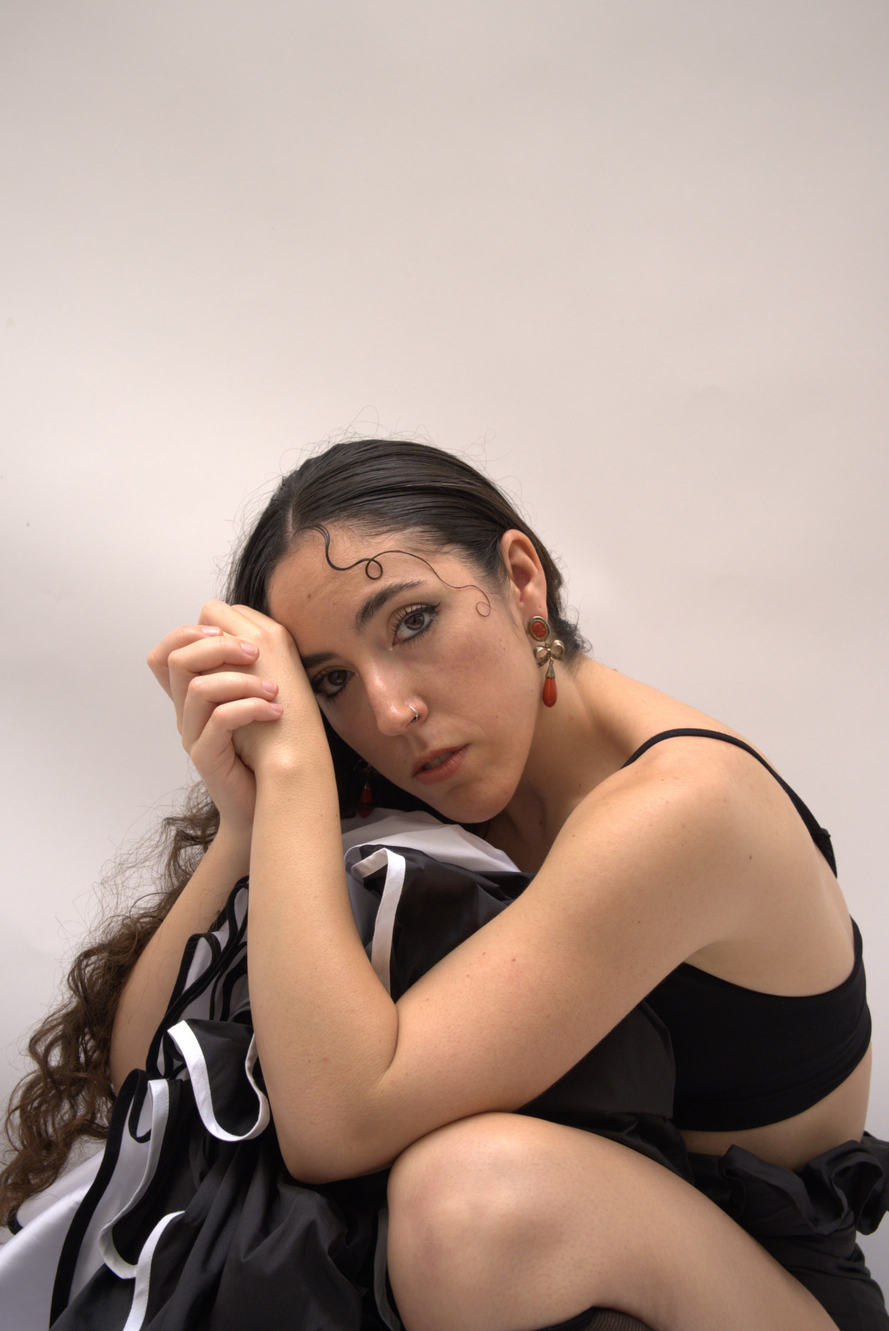
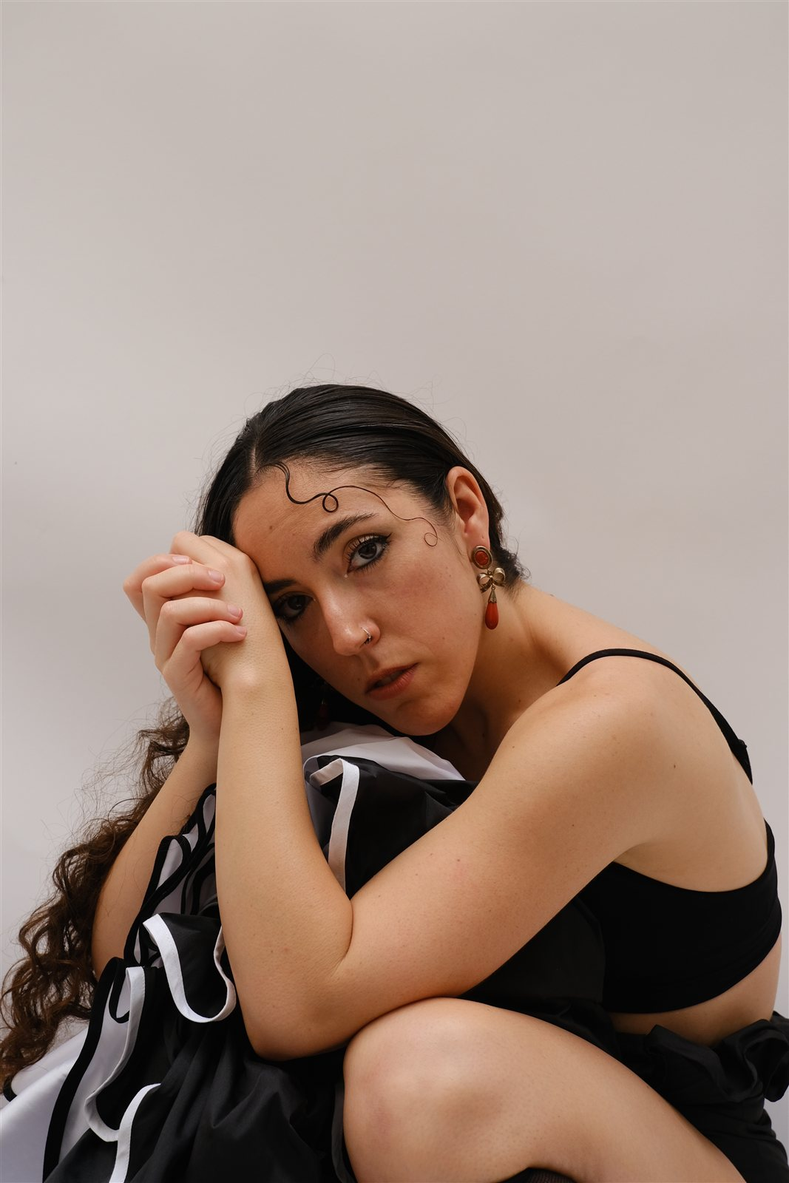
Update cover/bio photos, bio text, and add La Gritaera Fest project
- Widen/recrop hero cover photo and crop top background
- Make bio photo sticky while scrolling through bio text
- Replace bio copy with professional bio from Word doc
- Rename Limoneando collaboration to La Gritaera Fest with its own
  text and photo gallery (cover + numbered photos)
- Turn all project photo galleries into a horizontal carousel
- Match project info text height to its photo gallery height

diff --git a/index.html b/index.html
@@ -96,27 +96,17 @@
     <section id="bio" class="section section-bio">
         <div class="section-inner">
             <h2 data-es="Bio" data-en="Bio">Bio</h2>
-            <div class="bio-intro">
-                <p class="bio-question" data-es="Hay una pregunta que Lucía Nicolás lleva bailando desde que tiene memoria:" data-en="There is a question Lucía Nicolás has been dancing since she can remember:">Hay una pregunta que Lucía Nicolás lleva bailando desde que tiene memoria:</p>
-                <p class="bio-question-bold" data-es="¿dónde vive la danza española y el flamenco cuando nadie lo está mirando?" data-en="where does Spanish dance and flamenco live when nobody is watching?">¿dónde vive la danza española y el flamenco cuando nadie lo está mirando?</p>
-            </div>
             <div class="bio-content">
                 <div class="bio-image">
                     <img src="FOTOS/foto-bio.jpg" alt="Lucía Nicolás">
                 </div>
                 <div class="bio-text">
-                    <p data-es="Nació en la desconocida Murcia, donde jura haber bailado desde que tiene uso de razón. A los quince años se fue a Madrid persiguiendo su sueño de ser artista; dentro de conservatorios, absorbiendo de grandes maestros, rodeada de rigor y disciplina. Pero el cuerpo le pedía siempre más." data-en="She was born in the lesser-known Murcia, where she swears she has danced since she can remember. At fifteen, she left for Madrid chasing her dream of being an artist; inside conservatories, absorbing from great masters, surrounded by rigor and discipline. But her body always asked for more.">Nació en la desconocida Murcia, donde jura haber bailado desde que tiene uso de razón. A los quince años se fue a Madrid persiguiendo su sueño de ser artista; dentro de conservatorios, absorbiendo de grandes maestros, rodeada de rigor y disciplina. Pero el cuerpo le pedía siempre más.</p>
-                    <p data-es="Diez años después se fue a Querétaro, México, donde se podría decir que vivió la mayor experiencia de su vida. Allí trabajó durante cinco años en Proart, sede del reconocido Festival Ibérica Contemporánea, donde pudo crear sin límites, enseñar, interpretar y pensar mucho. Lo suficientemente lejos de España para verla con claridad, para echarla demasiado de menos." data-en="Ten years later she moved to Querétaro, Mexico, where you could say she lived the greatest experience of her life. There she worked for five years at Proart, home of the renowned Festival Ibérica Contemporánea, where she could create without limits, teach, perform and think deeply. Far enough from Spain to see it clearly, to miss it far too much.">Diez años después se fue a Querétaro, México, donde se podría decir que vivió la mayor experiencia de su vida. Allí trabajó durante cinco años en Proart, sede del reconocido Festival Ibérica Contemporánea, donde pudo crear sin límites, enseñar, interpretar y pensar mucho. Lo suficientemente lejos de España para verla con claridad, para echarla demasiado de menos.</p>
-                    <p data-es="Tiene el Premio Extraordinario Fin de Carrera del Real Conservatorio Mariemma, el título en Creación y Coreografía de Danza Española y el Máster en Flamencología, no tomándolas como credenciales, sino como herramientas que la aproximan a la danza que ella siempre ha soñado." data-en="She holds the Extraordinary End-of-Degree Award from the Royal Conservatory Mariemma, a degree in Spanish Dance Creation and Choreography, and a Master's in Flamencology, taking them not as credentials, but as tools that bring her closer to the dance she has always dreamed of.">Tiene el Premio Extraordinario Fin de Carrera del Real Conservatorio Mariemma, el título en Creación y Coreografía de Danza Española y el Máster en Flamencología, no tomándolas como credenciales, sino como herramientas que la aproximan a la danza que ella siempre ha soñado.</p>
+                    <p data-es="Lucía Nicolás es bailarina, coreógrafa, pedagoga e investigadora especializada en danza española y flamenco. Se forma en el Conservatorio Profesional de Danza de Murcia y termina sus estudios en el Real Conservatorio Profesional de Danza Mariemma de Madrid. Allí se gradúa con honores y obtiene el Premio Extraordinario Fin de Carrera «Virginia Valero» (2015). Forma parte de la compañía Larreal, con la que hace giras nacionales e internacionales. Es titulada en Creación y Coreografía por el Conservatorio Superior de Danza María de Ávila de Madrid (2020) y completa su formación con el Máster en Flamencología de la ESMUC (2024). Ha recibido la Beca del Ballet Nacional de España y ha sido seleccionada para las Estancias Coreográficas del Certamen de Tetuán." data-en="Lucía Nicolás is a dancer, choreographer, teacher and researcher specialising in Spanish dance and flamenco. She trained at the Conservatorio Profesional de Danza de Murcia and completed her studies at the Real Conservatorio Profesional de Danza Mariemma in Madrid, graduating with honours and receiving the Virginia Valero Outstanding Graduate Award (2015). She was part of the Larreal company, touring nationally and internationally. She holds a degree in Choreography and Creation from the Conservatorio Superior de Danza María de Ávila in Madrid (2020) and completed a Master's in Flamencology at ESMUC (2024). She has received the Ballet Nacional de España Scholarship and been selected for the Choreographic Residencies of the Certamen de Tetuán.">Lucía Nicolás es bailarina, coreógrafa, pedagoga e investigadora especializada en danza española y flamenco. Se forma en el Conservatorio Profesional de Danza de Murcia y termina sus estudios en el Real Conservatorio Profesional de Danza Mariemma de Madrid. Allí se gradúa con honores y obtiene el Premio Extraordinario Fin de Carrera «Virginia Valero» (2015). Forma parte de la compañía Larreal, con la que hace giras nacionales e internacionales. Es titulada en Creación y Coreografía por el Conservatorio Superior de Danza María de Ávila de Madrid (2020) y completa su formación con el Máster en Flamencología de la ESMUC (2024). Ha recibido la Beca del Ballet Nacional de España y ha sido seleccionada para las Estancias Coreográficas del Certamen de Tetuán.</p>
+                    <p data-es="Ha colaborado con artistas como Ángel Rojas, Mariana Collado, Eduardo Alvés, Sandra Ostrowski, Karen Lugo, Marta Nogal, Juanma Prieto y MuchaMuchacha. Durante cinco años trabaja como pedagoga, coreógrafa e intérprete en el Centro de Danza y Arte Proart (Querétaro, México), sede del Festival Ibérica Contemporánea. Allí integra la Compañía Internacional Proart y participa en creaciones como El Pan de Ayer, Mismidad y Préstame un Recuerdo. Como creadora firma piezas propias como La Ternura del Caballo Negro (2025), seleccionada en el Certamen Coreográfico de Madrid, y La niña de [fuego] (2025), presentada en el Festival Estrenarte (Murcia, 2026). Ha participado como intérprete y docente en el Festival Cuba Flamenco (2022), Encalé Guadalajara (2023) y el Festival Ibérica Contemporánea (2023 y 2025)." data-en="She has collaborated with artists such as Ángel Rojas, Mariana Collado, Eduardo Alvés, Sandra Ostrowski, Karen Lugo, Marta Nogal, Juanma Prieto and MuchaMuchacha. For five years she worked as a teacher, choreographer and performer at Centro de Danza y Arte Proart (Querétaro, Mexico), home of the Festival Ibérica Contemporánea. There she joined the Compañía Internacional Proart and took part in creations such as El Pan de Ayer, Mismidad and Préstame un Recuerdo. As a creator, she has signed her own pieces, such as La Ternura del Caballo Negro (2025), selected for the Certamen Coreográfico de Madrid, and La niña de [fuego] (2025), presented at the Festival Estrenarte (Murcia, 2026). She has taken part as performer and teacher at the Festival Cuba Flamenco (2022), Encalé Guadalajara (2023) and the Festival Ibérica Contemporánea (2023 and 2025).">Ha colaborado con artistas como Ángel Rojas, Mariana Collado, Eduardo Alvés, Sandra Ostrowski, Karen Lugo, Marta Nogal, Juanma Prieto y MuchaMuchacha. Durante cinco años trabaja como pedagoga, coreógrafa e intérprete en el Centro de Danza y Arte Proart (Querétaro, México), sede del Festival Ibérica Contemporánea. Allí integra la Compañía Internacional Proart y participa en creaciones como El Pan de Ayer, Mismidad y Préstame un Recuerdo. Como creadora firma piezas propias como La Ternura del Caballo Negro (2025), seleccionada en el Certamen Coreográfico de Madrid, y La niña de [fuego] (2025), presentada en el Festival Estrenarte (Murcia, 2026). Ha participado como intérprete y docente en el Festival Cuba Flamenco (2022), Encalé Guadalajara (2023) y el Festival Ibérica Contemporánea (2023 y 2025).</p>
+                    <p data-es="A su regreso a España recibe el encargo de coreografiar en el Conservatorio Superior de Danza María de Ávila. Allí crea el dúo La Bruja, inspirado en la nostalgia de su vida en México y seleccionado en el Certamen de Danza Española. Después participa en las residencias artísticas de AYE Cultura para La Gritaera Fest con el proyecto participativo Limoneando: Una Gritaera Bailada. Actualmente desarrolla su nueva creación, Sentadas al Borde, con el apoyo de las Residencias del Ballet Nacional de España, Unión Danza Visible y el Centro Párraga." data-en="On her return to Spain, she was commissioned to choreograph at the Conservatorio Superior de Danza María de Ávila, where she created the duet La Bruja, inspired by the nostalgia of her life in Mexico and selected for the Certamen de Danza Española. She then took part in AYE Cultura's artistic residencies for La Gritaera Fest with the participatory project Limoneando: Una Gritaera Bailada. She is currently developing her new creation, Sentadas al Borde, supported by the Ballet Nacional de España Residencies, Unión Danza Visible and Centro Párraga.">A su regreso a España recibe el encargo de coreografiar en el Conservatorio Superior de Danza María de Ávila. Allí crea el dúo La Bruja, inspirado en la nostalgia de su vida en México y seleccionado en el Certamen de Danza Española. Después participa en las residencias artísticas de AYE Cultura para La Gritaera Fest con el proyecto participativo Limoneando: Una Gritaera Bailada. Actualmente desarrolla su nueva creación, Sentadas al Borde, con el apoyo de las Residencias del Ballet Nacional de España, Unión Danza Visible y el Centro Párraga.</p>
+                    <p data-es="Su trabajo busca darle a la danza española un lugar en el presente. Para ello explora nuevos lenguajes a través de la investigación, el diálogo con la danza contemporánea y las herramientas digitales." data-en="Her work seeks to give Spanish dance a place in the present, exploring new languages through research, dialogue with contemporary dance and digital tools.">Su trabajo busca darle a la danza española un lugar en el presente. Para ello explora nuevos lenguajes a través de la investigación, el diálogo con la danza contemporánea y las herramientas digitales.</p>
                 </div>
             </div>
-            <div class="bio-bottom">
-                <p data-es="Su trabajo vive en la intersección de la danza española, el movimiento contemporáneo, la música techno y las herramientas digitales. No fusión. No pastiche. Algo más parecido a una colisión: dos sistemas que no deberían coexistir, forzados a la misma frecuencia hasta que algo nuevo emerge." data-en="Her work lives at the intersection of Spanish dance, contemporary movement, techno music and digital tools. Not fusion. Not pastiche. Something more like a collision: two systems that shouldn't coexist, forced to the same frequency until something new emerges.">Su trabajo vive en la intersección de la danza española, el movimiento contemporáneo, la música techno y las herramientas digitales. No fusión. No pastiche. Algo más parecido a una colisión: dos sistemas que no deberían coexistir, forzados a la misma frecuencia hasta que algo nuevo emerge.</p>
-                <p data-es="Ha bailado en España, Portugal, México, Cuba, Ecuador, Rumanía y Turquía. Ha construido piezas cortas y espectáculos completos. Ha sido galardonada con la Beca Ballet Nacional de España y con el Premio Estancias Coreográficas Yoshua Cienfuegos, entre otros. Su obra ha sido interpretada en certámenes y festivales nacionales e internacionales. No pretende hacer ruido con ello. Sigue avanzando." data-en="She has danced in Spain, Portugal, Mexico, Cuba, Ecuador, Romania and Turkey. She has built short pieces and full shows. She has been awarded the Ballet Nacional de España Scholarship and the Yoshua Cienfuegos Choreographic Residencies Prize, among others. Her work has been performed at national and international competitions and festivals. She doesn't try to make noise about it. She keeps moving forward.">Ha bailado en España, Portugal, México, Cuba, Ecuador, Rumanía y Turquía. Ha construido piezas cortas y espectáculos completos. Ha sido galardonada con la Beca Ballet Nacional de España y con el Premio Estancias Coreográficas Yoshua Cienfuegos, entre otros. Su obra ha sido interpretada en certámenes y festivales nacionales e internacionales. No pretende hacer ruido con ello. Sigue avanzando.</p>
-            </div>
-            <blockquote class="bio-quote">
-                <p data-es="«Siempre he sido muy callada. Mi abuelo bromeaba diciendo '¡Lucía, cállate ya, que no paras de hablar!', y me hacía mucha gracia. Ahora entiendo que mi fuerza está en la danza: ahí siento que grito, que no me da vergüenza decir lo que pienso, que me siento fuerte y con poder. Cosa que en la vida real, sinceramente, me cuesta.»" data-en="'I've always been very quiet. My grandfather used to joke saying 'Lucía, shut up already, you never stop talking!' and I found it hilarious. Now I understand that my strength is in dance: there I feel I'm screaming, that I'm not ashamed to say what I think, that I feel strong and powerful. Something that in real life, honestly, is hard for me.'">«Siempre he sido muy callada. Mi abuelo bromeaba diciendo '¡Lucía, cállate ya, que no paras de hablar!', y me hacía mucha gracia. Ahora entiendo que mi fuerza está en la danza: ahí siento que grito, que no me da vergüenza decir lo que pienso, que me siento fuerte y con poder. Cosa que en la vida real, sinceramente, me cuesta.»</p>
-            </blockquote>
         </div>
     </section>
 
@@ -301,9 +291,9 @@
         <div id="colaboraciones" class="section-inner escena-sub">
             <h3 class="escena-subtitle" data-es="Colaboraciones" data-en="Collaborations">Colaboraciones</h3>
             <div class="creaciones-grid">
-                <div class="creacion-card" data-piece="limoneando-gritaera">
-                    <div class="card-img"><img src="LA GRITAERA FEST/Limoneando-768x960.png" alt="Limoneando"></div>
-                    <h3>Limoneando</h3>
+                <div class="creacion-card" data-piece="gritaera-fest">
+                    <div class="card-img"><img src="LA GRITAERA FEST/PORTADA GRITAERA.jpg" alt="La Gritaera Fest"></div>
+                    <h3>La Gritaera Fest</h3>
                     <span class="card-tag" data-es="Una gritaera bailada" data-en="A danced «gritaera»">Una gritaera bailada</span>
                 </div>
                 <div class="creacion-card" data-piece="las-supers">
@@ -694,17 +684,28 @@
         </div>
     </template>
 
-    <template id="tmpl-limoneando-gritaera">
+    <template id="tmpl-gritaera-fest">
         <div class="piece-detail">
             <div class="piece-gallery">
-                <img src="LA GRITAERA FEST/Limoneando-768x960.png" alt="Limoneando">
+                <img src="LA GRITAERA FEST/PORTADA GRITAERA.jpg" alt="La Gritaera Fest">
+                <img src="LA GRITAERA FEST/1.JPEG" alt="La Gritaera Fest">
+                <img src="LA GRITAERA FEST/2.JPEG" alt="La Gritaera Fest">
+                <img src="LA GRITAERA FEST/3.JPEG" alt="La Gritaera Fest">
+                <img src="LA GRITAERA FEST/4.JPEG" alt="La Gritaera Fest">
+                <img src="LA GRITAERA FEST/5.JPEG" alt="La Gritaera Fest">
+                <img src="LA GRITAERA FEST/6.JPEG" alt="La Gritaera Fest">
+                <img src="LA GRITAERA FEST/7.jpg" alt="La Gritaera Fest">
+                <img src="LA GRITAERA FEST/8.jpg" alt="La Gritaera Fest">
+                <img src="LA GRITAERA FEST/9.JPEG" alt="La Gritaera Fest">
+                <img src="LA GRITAERA FEST/10.JPEG" alt="La Gritaera Fest">
             </div>
             <div class="piece-info">
-                <h2>Limoneando</h2>
+                <h2>La Gritaera Fest</h2>
                 <p class="piece-subtitle" data-es="Una gritaera bailada" data-en="A danced «gritaera»">Una gritaera bailada</p>
-                <p class="piece-desc" data-es="Próximamente, 24 de octubre, en Albudeite y Campos del Río, en el marco de La Gritaera Fest." data-en="Coming soon, October 24, in Albudeite and Campos del Río, as part of La Gritaera Fest.">Próximamente, 24 de octubre, en Albudeite y Campos del Río, en el marco de La Gritaera Fest.</p>
-                <p class="piece-desc" data-es="Es una propuesta de creación coreográfica comunitaria que construye, junto a las vecinas y vecinos de Albudeite y Campos del Río, una verbena intergeneracional que hibrida danza española, folclore murciano, flamenco y música electrónica en directo." data-en="It is a community choreographic creation proposal that builds, together with the residents of Albudeite and Campos del Río, an intergenerational verbena that hybridizes Spanish dance, Murcian folklore, flamenco and live electronic music.">Es una propuesta de creación coreográfica comunitaria que construye, junto a las vecinas y vecinos de Albudeite y Campos del Río, una verbena intergeneracional que hibrida danza española, folclore murciano, flamenco y música electrónica en directo.</p>
-                <p class="piece-desc" data-es="El material coreográfico nace del trabajo directo con las asociaciones de mujeres de ambos pueblos, recogiendo los gestos de las labores agrícolas y domésticas y traduciéndolos a un lenguaje dancístico contemporáneo. El proyecto investiga dos conceptos propios de La Gritaera: jalear y zarandear, acciones profundamente coreográficas que vertebran la creación." data-en="The choreographic material is born from direct work with the women's associations of both towns, gathering the gestures of agricultural and domestic labor and translating them into a contemporary dance language. The project investigates two concepts specific to La Gritaera: «jalear» (to cheer on) and «zarandear» (to shake), deeply choreographic actions that structure the creation.">El material coreográfico nace del trabajo directo con las asociaciones de mujeres de ambos pueblos, recogiendo los gestos de las labores agrícolas y domésticas y traduciéndolos a un lenguaje dancístico contemporáneo. El proyecto investiga dos conceptos propios de La Gritaera: jalear y zarandear, acciones profundamente coreográficas que vertebran la creación.</p>
+                <p class="piece-desc" data-es="LIMONEANDO. Una gritaera bailada es un taller de movimiento dirigido a todos los públicos que explora los cruces entre los códigos del folclore, el flamenco y la danza contemporánea." data-en="LIMONEANDO. A Danced Gritaera is a movement workshop open to all audiences that explores the crossovers between the codes of folklore, flamenco and contemporary dance.">LIMONEANDO. Una gritaera bailada es un taller de movimiento dirigido a todos los públicos que explora los cruces entre los códigos del folclore, el flamenco y la danza contemporánea.</p>
+                <p class="piece-desc" data-es="El proyecto propone una investigación colectiva en torno al patrimonio gestual y corporal del territorio, tomando como punto de partida sus movimientos, expresiones, ritmos y formas de celebración. A través de diferentes pautas de movimiento, se invita a lxs participantes a experimentar con la improvisación y la danza como herramientas de expresión libre, encuentro y reivindicación del cuerpo. El proceso culmina en la creación de una performance en vivo, concebida como un espacio compartido de expresión y celebración colectiva." data-en="The project proposes a collective investigation into the gestural and bodily heritage of the territory, taking its movements, expressions, rhythms and forms of celebration as a starting point. Through different movement scores, participants are invited to experiment with improvisation and dance as tools for free expression, encounter and the reclaiming of the body. The process culminates in the creation of a live performance, conceived as a shared space of expression and collective celebration.">El proyecto propone una investigación colectiva en torno al patrimonio gestual y corporal del territorio, tomando como punto de partida sus movimientos, expresiones, ritmos y formas de celebración. A través de diferentes pautas de movimiento, se invita a lxs participantes a experimentar con la improvisación y la danza como herramientas de expresión libre, encuentro y reivindicación del cuerpo. El proceso culmina en la creación de una performance en vivo, concebida como un espacio compartido de expresión y celebración colectiva.</p>
+                <p class="piece-desc" data-es="Durante dos semanas, Lucía desarrolló el proyecto en los municipios de Albudeite y Campos del Río, trabajando con diferentes grupos y colectivos de ambos territorios: el grupo motor de Campos del Río, la Asociación de Mujeres de Albudeite, jóvenes del municipio y participantes del Aula de Cultura del Centro Penitenciario de Campos del Río." data-en="Over two weeks, Lucía developed the project in the municipalities of Albudeite and Campos del Río, working with different groups and collectives from both areas: the driving group of Campos del Río, the Albudeite Women's Association, young people from the municipality and participants from the Culture Classroom of the Campos del Río Penitentiary Centre.">Durante dos semanas, Lucía desarrolló el proyecto en los municipios de Albudeite y Campos del Río, trabajando con diferentes grupos y colectivos de ambos territorios: el grupo motor de Campos del Río, la Asociación de Mujeres de Albudeite, jóvenes del municipio y participantes del Aula de Cultura del Centro Penitenciario de Campos del Río.</p>
+                <p class="piece-desc" data-es="Como cierre del proceso, el 24 de octubre tuvo lugar una muestra pública del trabajo desarrollado a través de una performance colectiva. La jornada continuó con una verbena intergeneracional acompañada por una sesión de DJ en directo a cargo de Diego Gálvez, convirtiendo el encuentro en una celebración compartida entre generaciones, cuerpos y comunidades." data-en="To close the process, a public showing of the work took place on October 24th through a collective performance. The day continued with an intergenerational verbena accompanied by a live DJ set by Diego Gálvez, turning the gathering into a celebration shared between generations, bodies and communities.">Como cierre del proceso, el 24 de octubre tuvo lugar una muestra pública del trabajo desarrollado a través de una performance colectiva. La jornada continuó con una verbena intergeneracional acompañada por una sesión de DJ en directo a cargo de Diego Gálvez, convirtiendo el encuentro en una celebración compartida entre generaciones, cuerpos y comunidades.</p>
             </div>
         </div>
     </template>

diff --git a/styles.css b/styles.css
@@ -280,7 +280,7 @@ nav a:hover {
 .hero {
     position: relative;
     width: 100%;
-    aspect-ratio: 2600 / 1474;
+    aspect-ratio: 2600 / 1600;
     display: flex;
     align-items: center;
     justify-content: center;
@@ -301,6 +301,7 @@ nav a:hover {
     width: 100%;
     height: 100%;
     object-fit: cover;
+    object-position: center 85%;
     filter: grayscale(40%) sepia(20%) contrast(1.1);
     opacity: 0;
     transition: opacity 1.5s ease-in-out;
@@ -418,26 +419,6 @@ nav a:hover {
     background-color: var(--color-bg);
 }
 
-.bio-intro {
-    margin-bottom: 3rem;
-}
-
-.bio-question {
-    font-family: var(--font-serif);
-    font-size: 1.2rem;
-    font-style: italic;
-    color: var(--color-text-dim);
-    margin-bottom: 0.5rem;
-}
-
-.bio-question-bold {
-    font-family: var(--font-serif);
-    font-size: 1.4rem;
-    font-weight: 600;
-    font-style: italic;
-    color: var(--color-cream);
-}
-
 .bio-content {
     display: grid;
     grid-template-columns: 1fr 1.5fr;
@@ -445,37 +426,16 @@ nav a:hover {
     align-items: start;
 }
 
-.bio-bottom {
-    margin-top: 2.5rem;
-}
-
-.bio-bottom p {
-    font-family: var(--font-body);
-    font-size: 1rem;
-    font-weight: 200;
-    line-height: 1.9;
-    color: var(--color-text-dim);
-    margin-bottom: 1.5rem;
-}
-
-.bio-quote {
-    margin-top: 3rem;
-    border-left: 3px solid var(--color-yellow);
-    padding-left: 2rem;
-    max-width: 800px;
-}
-
-.bio-quote p {
-    font-family: var(--font-serif);
-    font-size: 1.1rem;
-    font-style: italic;
-    line-height: 1.9;
-    color: var(--color-warm);
+.bio-image {
+    position: sticky;
+    top: 2rem;
+    align-self: start;
 }
 
 .bio-image img {
     width: 100%;
-    height: 500px;
+    height: 70vh;
+    max-height: 650px;
     object-fit: cover;
     object-position: center 85%;
     filter: grayscale(40%) sepia(20%) contrast(1.1);
@@ -1100,26 +1060,77 @@ nav a:hover {
 }
 
 .piece-gallery {
-    display: flex;
-    flex-direction: column;
-    gap: 1rem;
+    position: relative;
 }
 
-.piece-gallery img,
-.piece-gallery video {
+.piece-gallery-track {
+    display: flex;
+    overflow-x: auto;
+    scroll-snap-type: x mandatory;
+    scroll-behavior: smooth;
+    scrollbar-width: none;
+    -ms-overflow-style: none;
+}
+
+.piece-gallery-track::-webkit-scrollbar {
+    display: none;
+}
+
+.piece-gallery-track img,
+.piece-gallery-track video {
+    flex: 0 0 100%;
     width: 100%;
+    aspect-ratio: 3 / 2;
     object-fit: cover;
+    scroll-snap-align: start;
     filter: grayscale(30%) sepia(15%) contrast(1.05);
 }
 
-.piece-gallery img:first-child,
-.piece-gallery video:first-child {
-    aspect-ratio: 3 / 2;
+.piece-gallery-arrow {
+    position: absolute;
+    top: 50%;
+    transform: translateY(-50%);
+    width: 2.75rem;
+    height: 2.75rem;
+    border-radius: 50%;
+    border: none;
+    background: rgba(10, 10, 10, 0.55);
+    color: var(--color-cream);
+    font-size: 1.5rem;
+    line-height: 1;
+    cursor: pointer;
+    display: flex;
+    align-items: center;
+    justify-content: center;
+    z-index: 2;
+    transition: background 0.2s;
 }
 
-.piece-gallery img:not(:first-child),
-.piece-gallery video:not(:first-child) {
-    aspect-ratio: 4 / 3;
+.piece-gallery-arrow:hover {
+    background: rgba(10, 10, 10, 0.8);
+    color: var(--color-yellow);
+}
+
+.piece-gallery-prev {
+    left: 0.75rem;
+}
+
+.piece-gallery-next {
+    right: 0.75rem;
+}
+
+.piece-gallery-counter {
+    position: absolute;
+    bottom: 0.75rem;
+    right: 0.75rem;
+    z-index: 2;
+    background: rgba(10, 10, 10, 0.55);
+    color: var(--color-cream);
+    font-family: var(--font-body);
+    font-size: 0.75rem;
+    letter-spacing: 0.05em;
+    padding: 0.25rem 0.6rem;
+    border-radius: 1rem;
 }
 
 .piece-info {
@@ -1578,6 +1589,10 @@ footer p {
     .bio-content {
         grid-template-columns: 1fr;
         gap: 2rem;
+    }
+
+    .bio-image {
+        position: static;
     }
 
     .bio-image img {

diff --git a/script.js b/script.js
@@ -117,6 +117,68 @@
     const modalContent = document.getElementById('modal-content');
     const modalClose = document.getElementById('modal-close');
 
+    // Convierte cada .piece-gallery (imágenes/vídeos apilados) en un carrusel horizontal
+    function initPieceGalleries(root) {
+        root.querySelectorAll('.piece-gallery').forEach(gallery => {
+            const media = [...gallery.children];
+            if (media.length === 0) return;
+
+            const track = document.createElement('div');
+            track.className = 'piece-gallery-track';
+            media.forEach(m => track.appendChild(m));
+            gallery.appendChild(track);
+
+            if (media.length > 1) {
+                const prevBtn = document.createElement('button');
+                prevBtn.type = 'button';
+                prevBtn.className = 'piece-gallery-arrow piece-gallery-prev';
+                prevBtn.setAttribute('aria-label', 'Anterior');
+                prevBtn.textContent = '‹';
+
+                const nextBtn = document.createElement('button');
+                nextBtn.type = 'button';
+                nextBtn.className = 'piece-gallery-arrow piece-gallery-next';
+                nextBtn.setAttribute('aria-label', 'Siguiente');
+                nextBtn.textContent = '›';
+
+                const counter = document.createElement('div');
+                counter.className = 'piece-gallery-counter';
+
+                gallery.append(prevBtn, nextBtn, counter);
+
+                const slideWidth = () => track.clientWidth;
+                const updateCounter = () => {
+                    const idx = Math.round(track.scrollLeft / slideWidth());
+                    counter.textContent = (idx + 1) + ' / ' + media.length;
+                };
+                prevBtn.addEventListener('click', () => track.scrollBy({ left: -slideWidth(), behavior: 'smooth' }));
+                nextBtn.addEventListener('click', () => track.scrollBy({ left: slideWidth(), behavior: 'smooth' }));
+
+                let scrollTimer;
+                track.addEventListener('scroll', () => {
+                    clearTimeout(scrollTimer);
+                    scrollTimer = setTimeout(updateCounter, 80);
+                });
+
+                updateCounter();
+            }
+        });
+    }
+
+    // Ajusta la altura del texto a la de la galería (columnas lado a lado) para que no
+    // sobre hueco bajo las fotos ni el texto se alargue de más: el texto hace scroll interno.
+    function syncPieceInfoHeight(root) {
+        const gallery = root.querySelector('.piece-gallery');
+        const info = root.querySelector('.piece-info');
+        if (!gallery || !info) return;
+        if (window.innerWidth <= 768) {
+            info.style.maxHeight = '';
+            return;
+        }
+        const h = gallery.getBoundingClientRect().height;
+        if (h > 0) info.style.maxHeight = h + 'px';
+    }
+
     document.querySelectorAll('.creacion-card[data-piece]').forEach(card => {
         card.addEventListener('click', () => {
             const pieceId = card.dataset.piece;
@@ -128,11 +190,17 @@
                 modalContent.querySelectorAll('[data-es]').forEach(el => {
                     el.textContent = el.getAttribute('data-' + currentLang);
                 });
+                initPieceGalleries(modalContent);
+                syncPieceInfoHeight(modalContent);
                 modal.classList.add('open');
                 modal.scrollTop = 0;
                 document.body.style.overflow = 'hidden';
             }
         });
+    });
+
+    window.addEventListener('resize', () => {
+        if (modal.classList.contains('open')) syncPieceInfoHeight(modalContent);
     });
 
     modalClose.addEventListener('click', () => {
